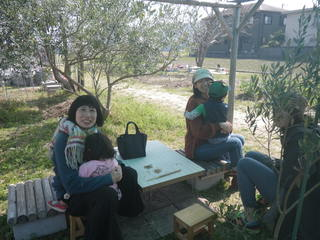
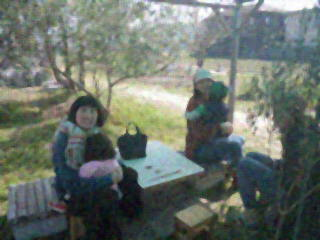
face blur

diff --git a/README.md b/README.md
@@ -40,6 +40,7 @@ Requirement
 + quicklisp (for uiop, ppcre)
 + [buildapp](https://www.xach.com/lisp/buildapp)
 + Imagemagick
++ facedetect
 
 tested on linux only.
 
